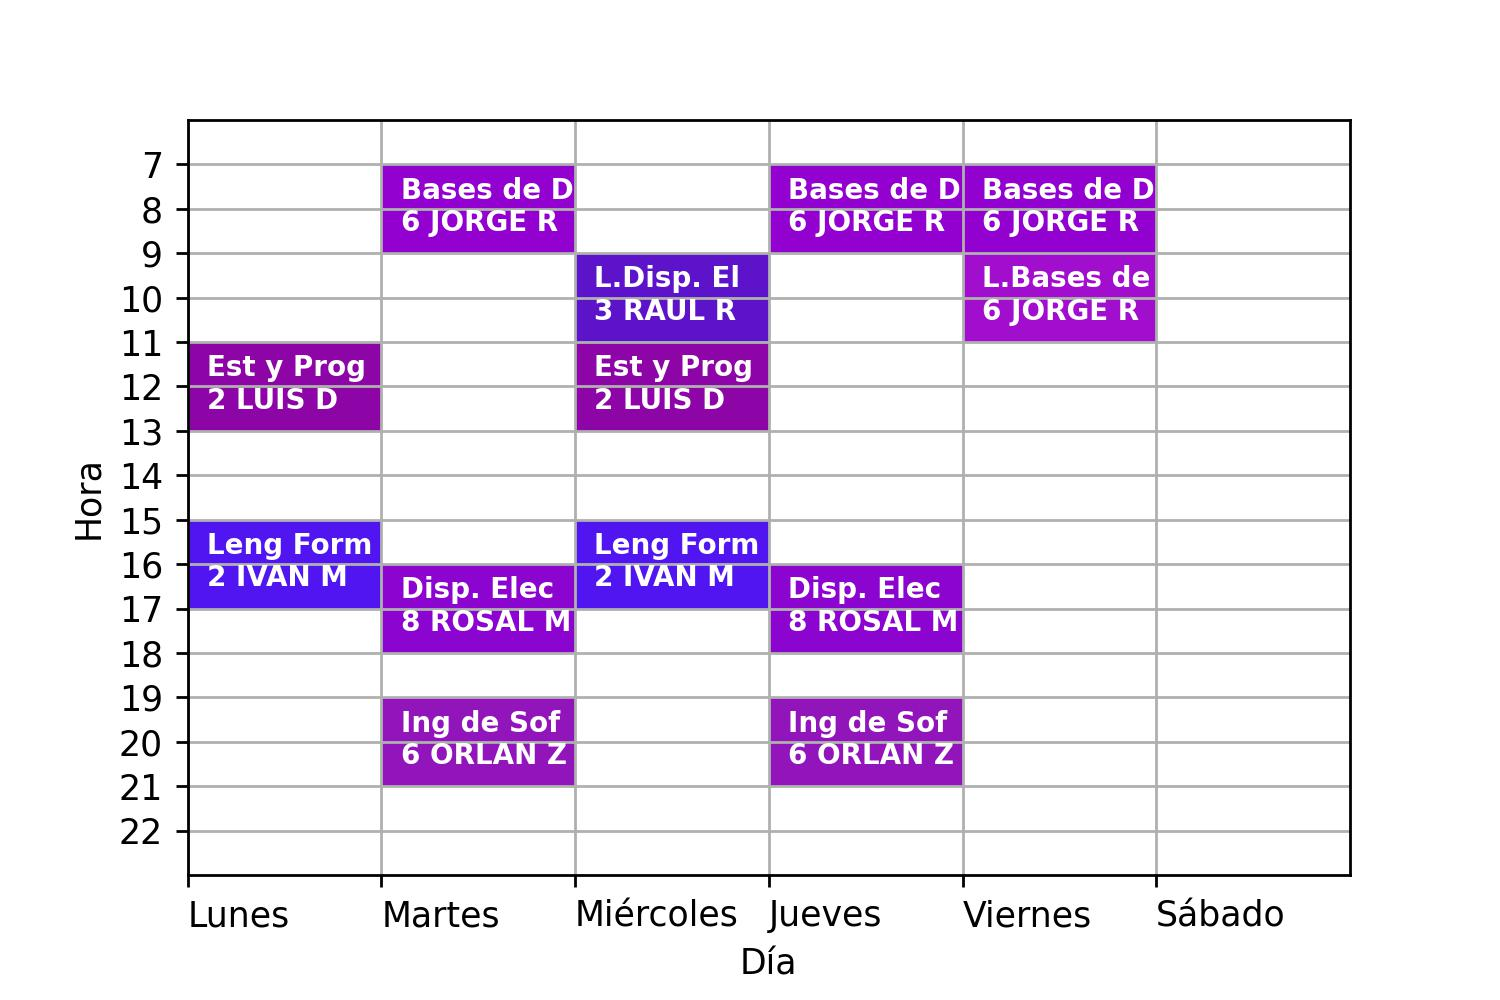
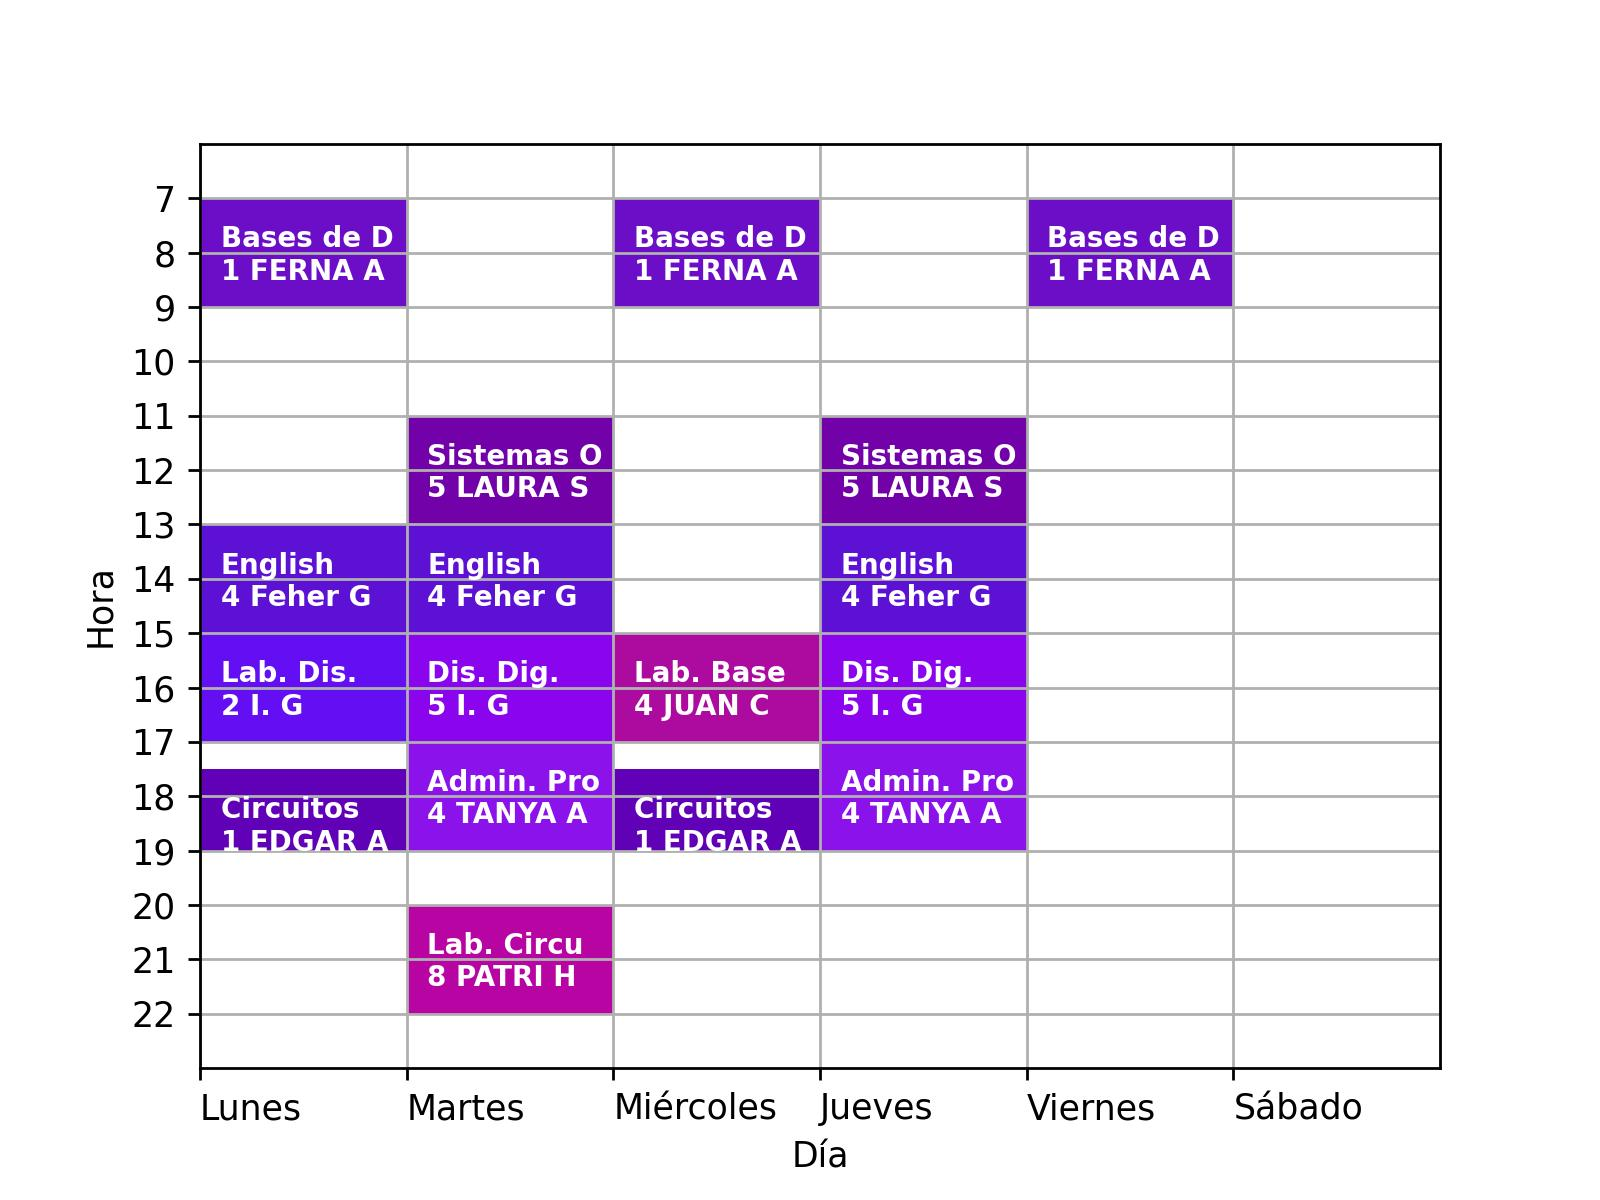
Se creó el archivo py y se implementó la apertura del folder

diff --git a/generador.py b/generador.py
@@ -1,0 +1,328 @@
+import pandas as pd
+import numpy as np
+import matplotlib.pyplot as plt
+import seaborn as sbs
+from multiprocess.dummy import Pool
+import subprocess
+import sys
+import os
+
+"""
+TO DO:
+- Entrar a la página de la facultad de ingenieria y probar la clave 1413 (Introducción a la Economia) y extraer la tabla de datos
+- Colocar los datos en un excel y guardarlo
+- Generalizar la función para cualquier clabe
+- Anidar los datos extraidos en un único excell
+
+
+from selenium import webdriver
+from selenium.webdriver.common.keys import Keys
+import time
+
+#Accede al navegador y a la página de la facultad
+driver = webdriver.Chrome()
+driver.get("https://www.ssa.ingenieria.unam.mx/horarios.html")
+
+campo_clave = driver.find_element("id","clave")
+buscar = driver.find_element("id","buscar")
+campo_clave.send_keys("1413")
+buscar.click()
+
+import re
+import requests
+from colorama import Fore
+
+website = "https://www.ssa.ingenieria.unam.mx/horarios.html"
+resultado = requests.get(website)
+content = resultado.text
+print(content)
+
+time.sleep(5)
+
+driver.close()
+"""
+
+
+
+lista_horarios = list()
+df = pd.read_excel('Excel/Campeones.xlsx')
+
+def ordenarDataFrame(df):
+    renglones_por_clv = df.groupby('Clave').size().reset_index(name = 'Opciones')
+    df_ordenado = df.merge(renglones_por_clv, on = 'Clave').sort_values(['Opciones','Clave'],ascending = False)
+    df_ordenado = df_ordenado.reset_index(drop=True)
+    return df_ordenado
+
+def abrir_carpeta(ruta):
+    if sys.platform == "win32":
+        subprocess.Popen(f'explorer "{ruta}"')
+    elif sys.platform == "darwin":
+        # macOS
+        subprocess.Popen(["open", ruta])
+    elif sys.platform == "linux":
+        # Linux
+        subprocess.Popen(["xdg-open", ruta])
+    else:
+        print("No se pudo abrir la carpeta")    
+
+materias = len(df.Clave.unique())
+df = ordenarDataFrame(df)
+
+
+#Verificación por horario
+def haySolapeHoras(a,b): #DataFrame, comparativa a comparativa b
+    if b.Inicio_min - a.Inicio_min == 0: #empiezan a la misma hora
+        return True
+    if b.Inicio_min - a.Inicio_min > 0: #b empieza después que a
+        if(b.Inicio_min - a.Inicio_min < a.Duracion*60):
+            return True
+    else:
+        if(abs(b.Inicio_min - a.Inicio_min) < b.Duracion*60):
+            return True 
+    return False
+    
+
+def noHaySolape(horario_actual,materia):    
+    """
+    Verifica si existe un solape entre un potencial horario_actual y una materia (renglón del dataframe)
+
+    Parameters
+    ----------
+        horario_actual: dataFrame
+            Es el horario_actual que se va armando
+        materia: series
+            Es la fila que contiene toda la info de la materia que se quiere meter
+    """
+    orden = ['Lun', 'Mar', 'Mie', 'Jue', 'Vie', 'Sab']
+    for i in range(0,len(horario_actual)):
+        prod = horario_actual.iloc[i].loc[orden] * materia.loc[orden]
+
+        #Ejecuta la funcion all para ver si todos los elementos son cero
+        if(not (prod == 0).all()):
+            if(haySolapeHoras(horario_actual.iloc[i],materia)):
+                return False
+    return True
+
+#Crea el encabezado de los dummy values de los días (en orden)
+orden = ['Lun', 'Mar', 'Mie', 'Jue', 'Vie', 'Sab'] 
+
+#Obtiene los dummy values directo del df
+dummy_dias = pd.Series(df.Días).str.get_dummies(sep=', ')
+
+# Reordena y añade los valores de las variables ficticias a la serie "dias" y cambia los NaN por 0
+dummy_dias = dummy_dias.reindex(orden, axis=1).fillna(0, downcast='int64')
+
+#Añade este nuevo df al df original
+df = df.assign(**dummy_dias)
+
+# # Get dummies de las horas
+
+#Crea una series de las horas que se imparte esa materia
+horas_sep = df.Horario.str.split(" a ")
+
+#Crea un diccionario con la series anterior, la clave es el índice de la serie y el valor la tupla de horas
+diccionario = dict(zip(horas_sep.index, horas_sep.values))
+
+#A partir de este diccionario, crea un dataframe llamado horas y nombra sus columnas
+horas = pd.DataFrame.from_dict(diccionario).transpose()
+horas.columns = ['Inicio','Fin']
+
+#Une las horas al dataframe original
+df = df.assign(**horas)
+
+
+#Genera una series que contiene las horas y los minutos como tupla
+hrs_y_min = df.Inicio.str.split(":")
+
+#Obtiene la hora de inicio en terminos de minutos y crea una nueva columna en el df
+minutos = hrs_y_min.str[0].astype(int)*60 +  hrs_y_min.str[1].astype(int)
+
+#Une la variable minutos como inicio
+df = df.assign(Inicio_min = minutos)
+
+#obtiene la hora final en terminos de minutos y crea una nueva columna en el df
+hrs_y_min = df.Fin.str.split(":")
+minutos = hrs_y_min.str[0].astype(int)*60 +  hrs_y_min.str[1].astype(int)
+
+#Une la variable miniutos como fin
+df = df.assign(Fin_min = minutos)
+
+
+
+#Calcula la duración de cada clase en horas
+duracion = df.Fin_min - df.Inicio_min
+df = df.assign(Duracion = duracion/60)
+
+
+"""TO DO:
+- Generar un código que se ejecute en paralelo 
+- Generar dos ramas de horarios en paralelo 
+- Extender hasta la mayor cantidad de ramas posibles
+
+"""
+
+def combinarMaterias(horario,indice_actual):
+    """
+    Es una función recursiva que toma los parámetros para ir concatenando un horario
+    Parameters
+    ------------
+        horario: dataFrame
+            El horario que se va formando
+        indice_actual: int
+            El indice del renglón del df que se concatena
+    
+    """
+    #TODO: Implementar el avance por materias y no por índice
+    if indice_actual < len(df):
+        #Concatena el horario con la fila con el índice 'indice_actual' 
+        
+        new_row = df.copy()[df.index == indice_actual]
+        horario = pd.concat([horario, new_row])
+        #print(horario['Nombre'])
+        siguiente = indice_actual + 1
+        #El programa va a corroborar si las siguientes filas son compatibles
+        for i in range(siguiente,len(df)):
+            clv_materia_sig = df.iloc[i]['Clave']
+            if ((horario['Clave']==clv_materia_sig).any()):
+                """
+                TODO:
+                Implememtar la verificación con materias asimétricas
+                
+                """
+                continue
+            elif noHaySolape(horario,df.iloc[i]):
+                combinarMaterias(horario,i) #Al ser recursiva, va concatenando las filas del excel que no se solapen y sean diferentes materias
+        
+    if(len(horario.Clave.unique()) == materias): #Si ya se tienen todas las materias 
+        lista_horarios.append(horario)
+        
+       
+
+def procesar_datos(args):
+    #print("Se está procesando")
+    horario, indice, = args
+    combinarMaterias(horario, indice)
+
+# """TODO:
+# -Generar horarios de forma paralela
+
+# """
+
+# def generarHorarios():
+#     """
+#     Genera los horarios, realiza un arbol de posibilidades por cada opcion de la primer materia
+#     """
+#     n=0
+#     #Realiza este proceso mientras que se trate de la misma materia, el dataframe debe estar ordenado por clave
+#     while(df.iloc[n].Clave == df.Clave.unique()[0]): 
+#         horario = pd.DataFrame(columns = df.columns) #crea un df con las mismas columnas para ir armando el horario
+#         combinarMaterias(horario,n)
+#         n = n+1
+
+
+def generarHorarios():
+
+        indices =  df.loc[df['Clave']==df.iloc[0]['Clave']].index
+        horarios = [None]*len(indices)
+
+        pool = Pool(len(indices)) 
+        
+        #print("Procesos:" + str(len(indices)))
+
+        pool.map(procesar_datos, zip(horarios,indices))
+        pool.close()
+        pool.join()
+
+def includes(horario,materia):
+    for i in range(0,len(horario)): #Checa con todas las materias del horario
+        if (materia.Gpo == horario.iloc[i].Gpo and materia.Clave == horario.iloc[i].Clave):
+            return True
+    return False
+
+def plotMateria(df,gnt):
+    import random
+    R = random.uniform(0.3,0.75)
+    G = random.uniform(0, 0.1)
+    B = random.uniform(0.6, 1)
+    
+    i = 0
+    hora = (df.Inicio_min/60)
+    duracion = df.Duracion
+    
+    for cat in df.loc[orden]: #Lo que hace es particionar el df a los días de la semana
+        if cat == 1:
+            gnt.broken_barh([(i,1)], (hora, duracion) ,facecolors = (R, G, B))
+            nombre_materia = df.Nombre[:10]                                                     #Corta el texto para que quepa en el cuadro
+            nombre_profe = df.Profesor.split(" ")
+            nombre_pila = nombre_profe[1]
+            nombre_pila = nombre_pila[:5]
+            apellido = nombre_profe[-2]
+            #nombre_pila = df.Profesor[:7]
+            inicial = apellido [:1]
+            nombre = nombre_materia + "\n" + str(df.Gpo) + " " + nombre_pila  + " " + inicial                                    
+            gnt.text(i+0.1,hora+1.5,nombre,color="white",fontweight = "bold",fontsize = 8) #x,y,texto,color,grosor y tamaño
+        i = i+1
+
+
+def plotHorario(horario, numero):
+    fig, gnt = plt.subplots()
+    gnt.set_ylim(6,23 )
+    gnt.set_xlim(0,6)
+    gnt.set_xlabel('Día')
+    gnt.set_ylabel('Hora')
+    gnt.set_facecolor('white')
+    #horas = ['7','8','9','10','11','12','13','14','15','16','17','18','19','20','21','22']
+    dias = ['Lunes','Martes','Miércoles','Jueves','Viernes','Sábado']
+    plt.gca().invert_yaxis()
+    gnt.set_yticks(np.arange(7, 23,1))
+    gnt.set_xticks(np.arange(0,6,1))
+    gnt.set_xticklabels(dias,ha="left")
+    gnt.grid(True)
+
+    for i in range(0,len(horario)):
+        plotMateria(horario.iloc[i],gnt)
+
+    plt.savefig("Horarios/opción" + str(numero) + ".jpg",dpi = 250)
+    plt.close()
+
+
+def clearCarpeta():
+    import os, shutil
+    folder = 'Horarios/'
+    for filename in os.listdir(folder):
+        file_path = os.path.join(folder, filename)
+        try:
+            if os.path.isfile(file_path) or os.path.islink(file_path):
+                os.unlink(file_path)
+            elif os.path.isdir(file_path):
+                shutil.rmtree(file_path)
+        except Exception as e:
+            print('No fue posible borrar la carpeta %s. Excepción: %s' % (file_path, e))
+    
+
+def imprimirHorarios():
+    clearCarpeta()
+    if len(lista_horarios) == 0:
+        print("No se puede generar ningún horario con las materias ingresadas.")
+        return 0
+    n=1
+    for horario in lista_horarios:
+        plotHorario(horario,n)
+        #print(horario.iloc[:,0:8].drop(['Tipo','Cupo'],axis=1))
+        horario.drop(horario.tail(1).index,inplace=True)
+        n+=1
+    abrir_carpeta("Horarios")
+    
+
+#Crea un df vacío con las mismas columnas que el df del excel
+#horario = pd.DataFrame(columns = df.columns)
+#indices_iniciales = df.loc[df[df]]
+
+#generarHorarios(df)
+if __name__ == '__main__':
+    generarHorarios()
+print("Horarios generados: " + str(len(lista_horarios)))
+imprimirHorarios()
+
+
+
